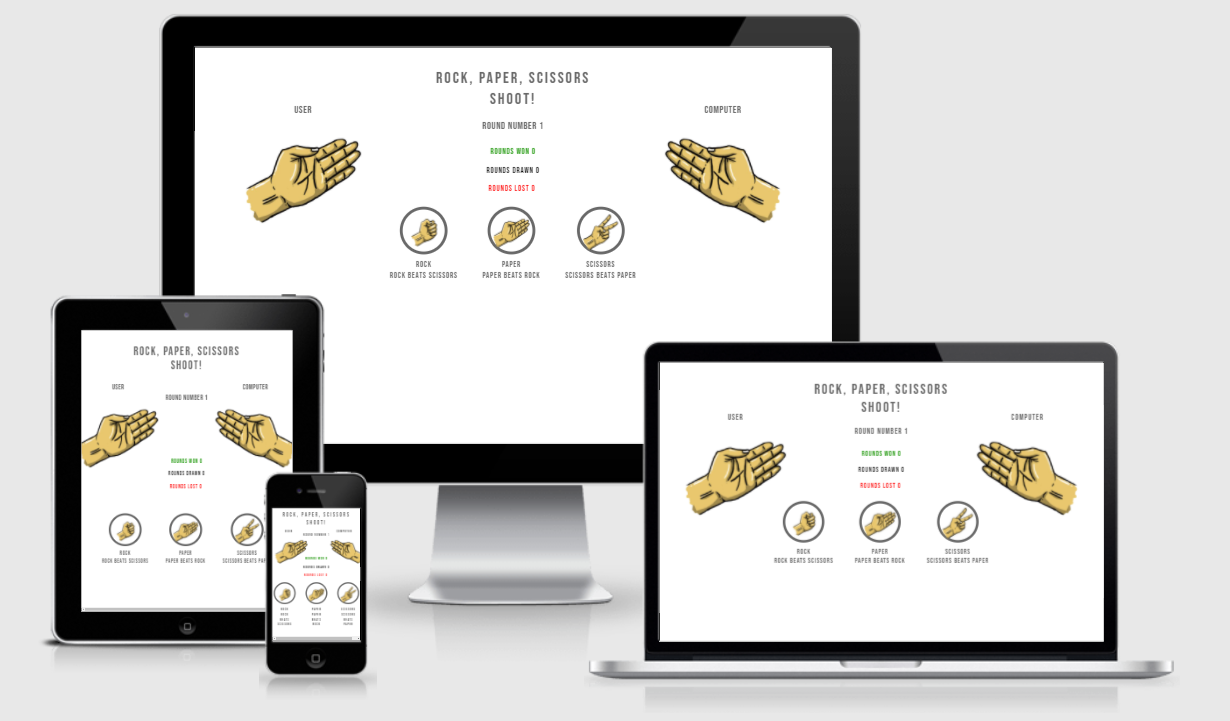
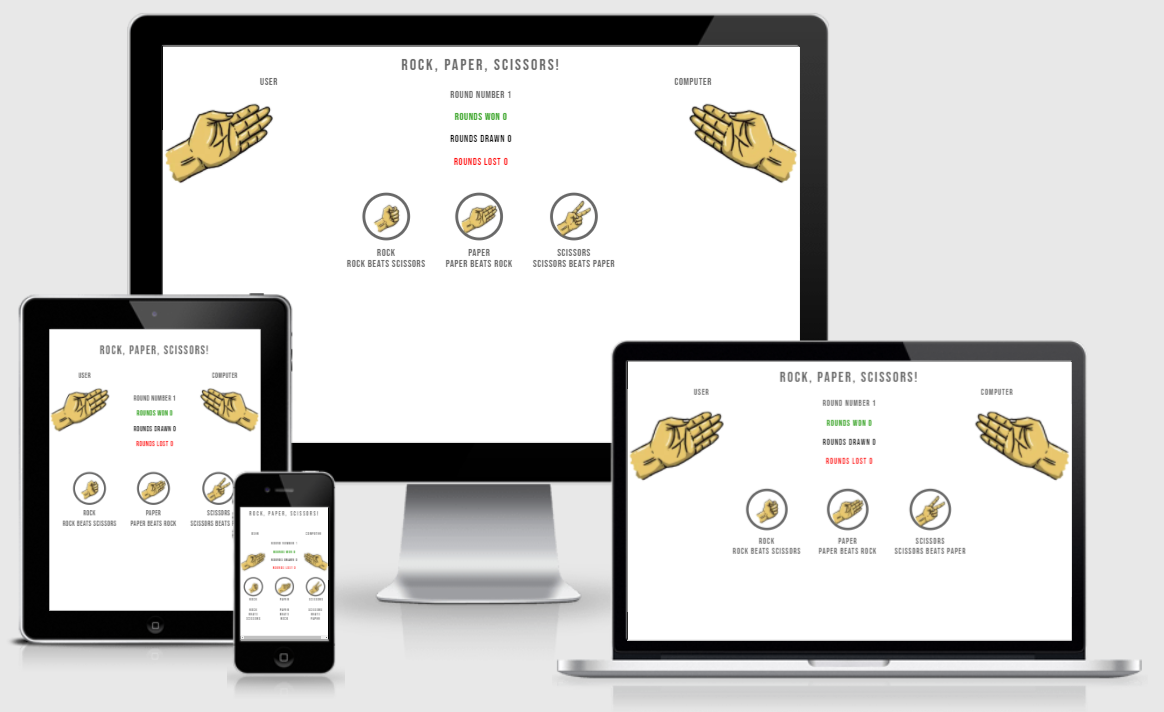
trying to use modal instead of alert, concept works but not displaying js variables

Changed region(s): [[0.0, 0.0, 0.9897, 0.9888], [0.3093, 0.0618, 0.5258, 0.4017], [0.5876, 0.0, 0.6186, 0.0618]]

diff --git a/assets/js/script.js b/assets/js/script.js
@@ -1,5 +1,32 @@
+// Get the modal
+var modal = document.getElementById("myModal");
+
+// Get the button that opens the modal
+var btn = document.getElementsByClassName("button-style");
+
+// Get the <span> element that closes the modal
+var span = document.getElementsByClassName("close")[0];
+
+// When the user clicks the button, open the modal 
+btn.onclick = function () {
+    modal.style.display = "block";
+};
+
+// When the user clicks on <span> (x), close the modal
+span.onclick = function () {
+    modal.style.display = "none";
+};
+
+// When the user clicks anywhere outside of the modal, close it
+window.onclick = function (event) {
+    if (event.target == modal) {
+        modal.style.display = "none";
+    }
+};
+
+
 document.addEventListener("DOMContentLoaded", function () {
-    let allButtons = document.getElementsByTagName("button");
+    let allButtons = document.getElementsByClassName("button-style");
     for (let button of allButtons) {
         button.addEventListener("click", function () {
             let userAnswer = this.getAttribute("data-type");
@@ -11,6 +38,7 @@ document.addEventListener("DOMContentLoaded", function () {
         });
     }
 });
+
 
 function playGame(userAnswer) {
 
@@ -25,11 +53,11 @@ function playGame(userAnswer) {
             displayUserScissors();
             break;
         default:
-            alert(`Game error, please try again later.`);
+            // alert(`Game error, please try again later.`);
             throw `Game error! Please investigate`;
     }
 
-    // threeSecondTimer();
+    threeSecondTimer();
 }
 
 function threeSecondTimer() {
@@ -44,6 +72,9 @@ function threeSecondTimer() {
         timeleft -= 1;
     }, 1000);
 }
+
+
+
 
 /**
  * Generates answer selected by user and displays correct image.
@@ -72,78 +103,95 @@ function returnGame(userAnswer) {
     if (randomComputerAnswer === "Rock" && userAnswer === "Rock") {
         displayComputerRock(randomComputerAnswer);
         setTimeout(function () {
-            alert(`You played: ${userAnswer} \nThe computer played: ${randomComputerAnswer} \nIt"s a draw!`);
+            // alert(`You played: ${userAnswer} \nThe computer played: ${randomComputerAnswer} \nIt"s a draw!`);
             increaseRoundNumber();
             increaseRoundsDrawn();
+            btn.onclick();
         }, 1000);
 
     } else if (randomComputerAnswer === "Rock" && userAnswer === "Paper") {
         displayComputerRock(randomComputerAnswer);
         setTimeout(function () {
-            alert(`You played: ${userAnswer} \nThe computer played: ${randomComputerAnswer} \nYou won!`);
+            // alert(`You played: ${userAnswer} \nThe computer played: ${randomComputerAnswer} \nYou won!`);
             increaseRoundNumber();
             increaseRoundsWon();
+            btn.onclick();
+
         }, 1000);
 
     } else if (randomComputerAnswer === "Rock" && userAnswer === "Scissors") {
         displayComputerRock(randomComputerAnswer);
         setTimeout(function () {
-            alert(`You played: ${userAnswer} \nThe computer played: ${randomComputerAnswer} \nYou lost!\n`);
+            // alert(`You played: ${userAnswer} \nThe computer played: ${randomComputerAnswer} \nYou lost!\n`);
             increaseRoundNumber();
             increaseRoundsLost();
+            btn.onclick();
+
         }, 1000);
 
 
     } else if (randomComputerAnswer === "Paper" && userAnswer === "Rock") {
         displayComputerPaper(randomComputerAnswer);
         setTimeout(function () {
-            alert(`You played: ${userAnswer} \nThe computer played: ${randomComputerAnswer} \nYou lost!\n`);
+            // alert(`You played: ${userAnswer} \nThe computer played: ${randomComputerAnswer} \nYou lost!\n`);
             increaseRoundNumber();
             increaseRoundsLost();
+            btn.onclick();
+
         }, 1000);
 
     } else if (randomComputerAnswer === "Paper" && userAnswer === "Paper") {
         displayComputerPaper(randomComputerAnswer);
         setTimeout(function () {
-            alert(`You played: ${userAnswer} \nThe computer played: ${randomComputerAnswer} \nIt"s a draw!`);
+            // alert(`You played: ${userAnswer} \nThe computer played: ${randomComputerAnswer} \nIt"s a draw!`);
             increaseRoundNumber();
             increaseRoundsDrawn();
+            btn.onclick();
+
         }, 1000);
 
     } else if (randomComputerAnswer === "Paper" && userAnswer === "Scissors") {
         displayComputerPaper(randomComputerAnswer);
         setTimeout(function () {
-            alert(`You played: ${userAnswer} \nThe computer played: ${randomComputerAnswer} \nYou won!`);
+            // alert(`You played: ${userAnswer} \nThe computer played: ${randomComputerAnswer} \nYou won!`);
             increaseRoundNumber();
             increaseRoundsWon();
+            btn.onclick();
+
         }, 1000);
 
     } else if (randomComputerAnswer === "Scissors" && userAnswer === "Rock") {
         displayComputerScissors(randomComputerAnswer);
         setTimeout(function () {
-            alert(`You played: ${userAnswer} \nThe computer played: ${randomComputerAnswer} \nYou won!`);
+            // alert(`You played: ${userAnswer} \nThe computer played: ${randomComputerAnswer} \nYou won!`);
             increaseRoundNumber();
             increaseRoundsWon();
+            btn.onclick();
+
         }, 1000);
 
     } else if (randomComputerAnswer === "Scissors" && userAnswer === "Paper") {
         displayComputerScissors(randomComputerAnswer);
         setTimeout(function () {
-            alert(`You played: ${userAnswer} \nThe computer played: ${randomComputerAnswer} \nYou lost!\n`);
+            // alert(`You played: ${userAnswer} \nThe computer played: ${randomComputerAnswer} \nYou lost!\n`);
             increaseRoundNumber();
             increaseRoundsLost();
+            btn.onclick();
+
         }, 1000);
 
     } else if (randomComputerAnswer === "Scissors" && userAnswer === "Scissors") {
         displayComputerScissors(randomComputerAnswer);
         setTimeout(function () {
-            alert(`You played: ${userAnswer} \nThe computer played: ${randomComputerAnswer} \nIt"s a draw!`);
+            // alert(`You played: ${userAnswer} \nThe computer played: ${randomComputerAnswer} \nIt"s a draw!`);
             increaseRoundNumber();
             increaseRoundsDrawn();
+            btn.onclick();
+
         }, 1000);
 
     } else {
-        alert(`Game error, please try again later.`);
+        // alert(`Game error, please try again later.`);
         throw `Game error! Please investigate`;
     }
 

diff --git a/index.html b/index.html
@@ -19,6 +19,17 @@
 
 <body>
 
+    <!-- The Modal -->
+    <div id="myModal" class="modal">
+
+        <!-- Modal content -->
+        <div class="modal-content">
+            <span class="close">&times;</span>
+            <p>You played: ${userAnswer}<br>The computer played: ${randomComputerAnswer}<br>It"s a draw!</p>
+        </div>
+
+    </div>
+
     <div class="game-name">
         Rock, Paper, Scissors!
     </div>
@@ -48,22 +59,40 @@
 
     <div class="buttons-area">
         <div class="flex-container">
-            <button data-type="Rock" class="button-style">
+            <button data-type="Rock" class="button-style" data-toggle="modal" data-target="#myModal">
                 <img src="./assets/images/user-rock-icon.webp" alt="Icon used for Rock button">
             </button>
             <p class="rules">Rock Beats Scissors</p>
         </div>
         <div class="flex-container">
-            <button data-type="Paper" class="button-style">
+            <button data-type="Paper" class="button-style" data-toggle="modal" data-target="#myModal">
                 <img src="./assets/images/user-paper-icon.webp" alt="Icon used for Paper button">
             </button>
             <p class="rules">Paper Beats Rock</p>
         </div>
         <div class="flex-container">
-            <button data-type="Scissors" class="button-style">
+            <button data-type="Scissors" class="button-style" data-toggle="modal" data-target="#myModal">
                 <img src="./assets/images/user-scissors-icon.webp" alt="Icon used for Scissors button">
             </button>
             <p class="rules">Scissors Beats Paper</p>
+        </div>
+    </div>
+
+    <div class="modal fade" id="myModal" tabindex="-1" role="dialog" aria-labelledby="myModalLabel" aria-hidden="true">
+        <div class="modal-dialog">
+            <div class="modal-content">
+                <div class="modal-header">
+                    <button type="button" class="close" data-dismiss="modal" aria-hidden="true">&times;</button>
+                    <h4 class="modal-title" id="myModalLabel">Round Summary</h4>
+
+                </div>
+                <div class="modal-body">
+                    <p>You played: <span class="roomNumber"></span>.</p>
+                </div>
+                <div class="modal-footer">
+                    <button type="button" class="btn btn-default" data-dismiss="modal">Close</button>
+                </div>
+            </div>
         </div>
     </div>
 

diff --git a/assets/css/style.css b/assets/css/style.css
@@ -1,3 +1,53 @@
+/* The Modal (background) */
+.modal {
+    display: none;
+    /* Hidden by default */
+    position: fixed;
+    /* Stay in place */
+    z-index: 1;
+    /* Sit on top */
+    padding-top: 100px;
+    /* Location of the box */
+    left: 0;
+    top: 0;
+    width: 100%;
+    /* Full width */
+    height: 100%;
+    /* Full height */
+    overflow: auto;
+    /* Enable scroll if needed */
+    background-color: rgb(0, 0, 0);
+    /* Fallback color */
+    background-color: rgba(0, 0, 0, 0.4);
+    /* Black w/ opacity */
+}
+
+/* Modal Content */
+.modal-content {
+    background-color: #fefefe;
+    margin: auto;
+    padding: 20px;
+    border: 1px solid #888;
+    width: 80%;
+}
+
+/* The Close Button */
+.close {
+    color: #aaaaaa;
+    float: right;
+    font-size: 28px;
+    font-weight: bold;
+}
+
+.close:hover,
+.close:focus {
+    color: #000;
+    text-decoration: none;
+    cursor: pointer;
+}
+
+
+
 body {
     background-color: white;
     font-family: "Bebas Neue", cursive;
@@ -23,15 +73,17 @@ body {
 }
 
 .player-name-user {
-    width: 33.3333%;
     font-size: 1.5rem;
     float: left;
+    position: relative;
+    left: 12.5%;
 }
 
 .player-name-computer {
-    width: 33.3333%;
     font-size: 1.5rem;
     float: right;
+    position: relative;
+    right: 12.5%;
 }
 
 #user-image {

diff --git a/README.md b/README.md
@@ -85,7 +85,7 @@ Below is a brief overview of the website and its main features.
 - User selects how many rounds to play, best of 5 etc.
 - The abilty to choose a difficulty level. Easy, medium & hard.
 - Use the data from pervious rounds. For example what does the user do after a draw? Does the user stick with the same button?
-- Display round outcome out of alert message.
+- Display round outcome out of alert message. Modal boxes were attempted instead but 
 
 ## Technologies
 
